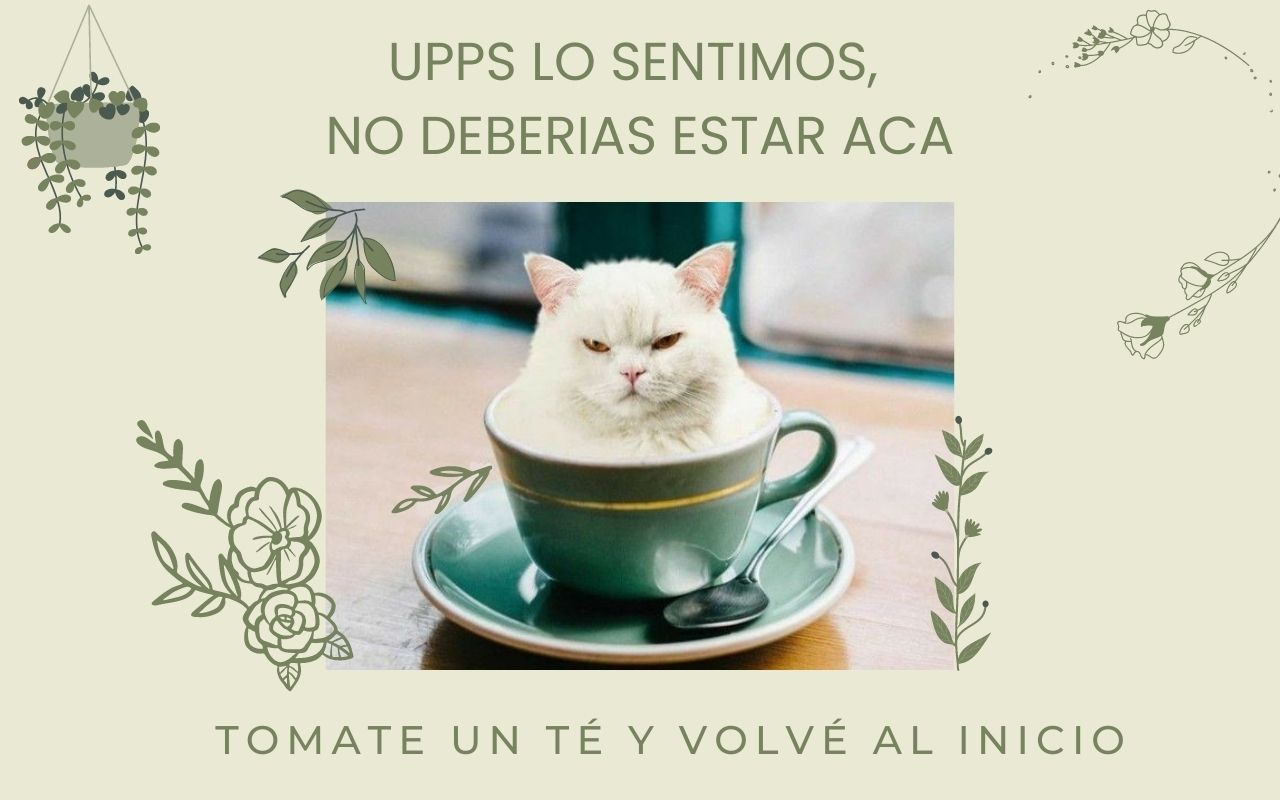
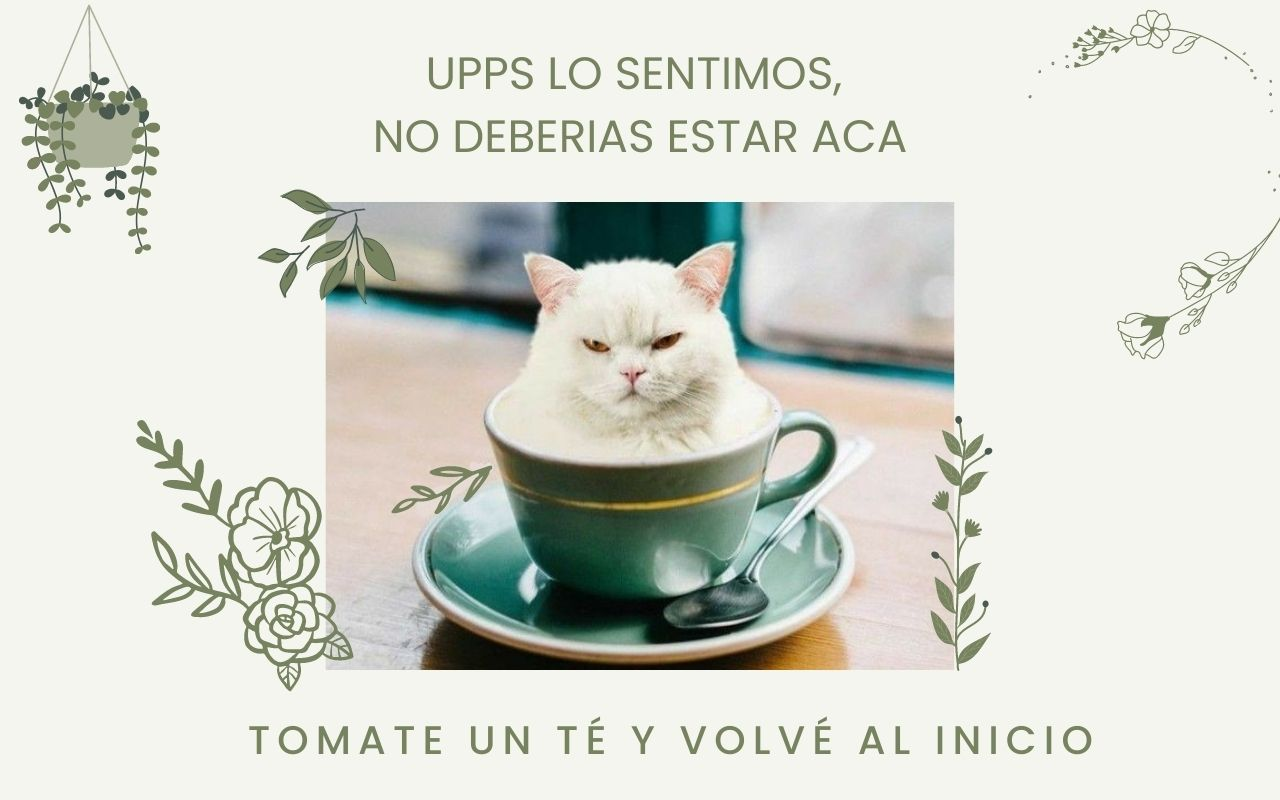
identacion

diff --git a/pages/contacto.html b/pages/contacto.html
@@ -5,8 +5,10 @@
     <meta charset="utf-8">
     <meta name="viewport" content="width=device-width, initial-scale=1">
     <title>Florentina - yerba organica y hierbas - nuestro contacto</title>
+    <meta name="description" content="Si queres revender, hacer regalos empresariales, desgustar nuestros sabores o conocer a cerca de 
+    recetas medicinales con nuestros blends, contactanos">
     <!-- favicon -->
-        <link rel="shortcut icon" href="../imagenes/favicon.svg" type="image/x-icon">
+    <link rel="shortcut icon" href="../imagenes/favicon.svg" type="image/x-icon">
     <!--link css de bootstrap-->
     <link href="https://cdn.jsdelivr.net/npm/bootstrap@5.3.0/dist/css/bootstrap.min.css" rel="stylesheet"
         integrity="sha384-9ndCyUaIbzAi2FUVXJi0CjmCapSmO7SnpJef0486qhLnuZ2cdeRhO02iuK6FUUVM" crossorigin="anonymous">
@@ -62,11 +64,10 @@
                                 alt="Yerba Florentina por mayor">
                             <div class="card-body">
                                 <h2 class="card-title">Quiero revender</h2>
-                                <p class="card-text">Some quick example text to build on the card title and make up
-                                    the
-                                    bulk
-                                    of
-                                    the card's content.</p>
+                                <p class="card-text">
+                                    Si estas interesad@ en emprender, o llevar tu local al siguiente nivel
+                                    escribinos para enviarte la informacion sobre la reventa de nuestros productos.
+                                </p>
                                 <a href="#" class="btn bg-green w-100">Pedir info</a>
                             </div>
                         </div>
@@ -78,11 +79,11 @@
                                 alt="Yerba Florentina regalos empesariales">
                             <div class="card-body">
                                 <h2 class="card-title">Regalos empresariales</h2>
-                                <p class="card-text">Some quick example text to build on the card title and make up
-                                    the
-                                    bulk
-                                    of
-                                    the card's content.</p>
+                                <p class="card-text">
+                                    Queres quedar bien con tus empleados,
+                                    tenes un evento y no sabes con qué premiarlos por su desempeño?
+                                    Escribinos y te contamos los giftboxes que tenemos!
+                                </p>
                                 <a href="#" class="btn bg-green w-100">Pedir info</a>
                             </div>
                         </div>
@@ -94,11 +95,12 @@
                                 alt="Yerba Florentina recetas">
                             <div class="card-body">
                                 <h2 class="card-title">Recetas sanadoras</h2>
-                                <p class="card-text">Some quick example text to build on the card title and make up
-                                    the
-                                    bulk
-                                    of
-                                    the card's content.</p>
+                                <p class="card-text">
+                                    Es bien sabido que las hierbas tienen poderes medicinales, pero como se llevarlas a
+                                    cabo?
+                                    Si queres recibir nuestro libro de recetas con un mix de hierbas incluido
+                                    escribinos.
+                                </p>
                                 <a href="#" class="btn bg-green w-100">Pedir info</a>
                             </div>
                         </div>
@@ -110,11 +112,10 @@
                                 alt="Yerba Florentina degustacion sabores ">
                             <div class="card-body">
                                 <h2 class="card-title">Degustacion de sabores</h2>
-                                <p class="card-text">Some quick example text to build on the card title and make up
-                                    the
-                                    bulk
-                                    of
-                                    the card's content.</p>
+                                <p class="card-text">
+                                    Si no estas muy seguro de que sabores te pueden gustar más y queres probar todos,
+                                    Escribinos y te mandamos la desgustacion de sabores de nuestras yerbas.
+                                </p>
                                 <a href="#" class="btn bg-green w-100">Pedir info</a>
                             </div>
                         </div>
@@ -184,8 +185,8 @@
                 </svg>
             </a>
         </div>
-         <!-- Ends icons -->
-         <div>
+        <!-- Ends icons -->
+        <div>
             <ul>
                 <li>
                     <a href="error404.html">Terminos y condiciones</a>
@@ -207,7 +208,7 @@
                 </li>
             </ul>
         </div>
-        
+
         <div>
             <ul>
                 <li>

diff --git a/index.html b/index.html
@@ -4,7 +4,14 @@
 <head>
     <meta charset="utf-8">
     <meta name="viewport" content="width=device-width, initial-scale=1">
+    <!-- SEO -->
     <title>Florentina - yerba organica y hierbas - inicio</title>
+    <meta name="description" content="Nuestra yerba mate orgánica tiene propiedades depurativas, cardioprotectoras, antioxidantes, estimulantes y tónicas. 
+        Contiene vitaminas, minerales, aminoácidos, ácidos grasos, clorofila y xantinas. Ayuda a combatir la falta de energía, 
+        la arteriosclerosis, los coágulos de sangre, el colesterol y la fatiga1. Además de los múltiples beneficios aportados, consumir 
+        yerba mate orgánica nos garantiza que desde el momento de su plantación hasta su procesamiento, no se expone a agroquímicos 
+        como insecticidas, plaguicidas o herbicidas. Es decir, al ser de producción orgánica, tenemos garantizada su inocuidad en cada 
+        etapa del proceso.">
     <!-- favicon -->
     <link rel="shortcut icon" href="imagenes/favicon.svg" type="image/x-icon">
     <!--link css de bootstrap-->
@@ -91,10 +98,13 @@
                 itaque eius unde!</p>
             <h2> Productos destacados</h2>
         </section>
-        <div class="foto-a"><img src="imagenes/nosotros2.jpg" alt="te en hebras Florentina en paquete 250gr repuesto y te en hebras"></div>
-        <div class="foto-b"><img src="imagenes/nosotros1.jpg" alt="Hierbas y flores Florentina saliendo de frasco"></div>
+        <div class="foto-a"><img src="imagenes/nosotros2.jpg"
+                alt="te en hebras Florentina en paquete 250gr repuesto y te en hebras"></div>
+        <div class="foto-b"><img src="imagenes/nosotros1.jpg" alt="Hierbas y flores Florentina saliendo de frasco">
+        </div>
         <div class="foto-c"><img src="imagenes/presentacionTE.jpg" alt="Hierbas Florentina, te en hebras"></div>
-        <div class="foto-d"><img src="imagenes/bolsitaRecargable.jpg" alt="Te Florentina en bolsita de tela, presentacion regalo"></div>
+        <div class="foto-d"><img src="imagenes/bolsitaRecargable.jpg"
+                alt="Te Florentina en bolsita de tela, presentacion regalo"></div>
         <div class="foto-e"><img src="imagenes/nosotros3.jpg" alt="Te Florentina en formato blend 500gr"></div>
         <div class="foto-f"><img src="imagenes/img4.webp" alt="Yerba Florentina en formato blend 500gr"></div>
     </main>
@@ -121,8 +131,8 @@
                 </svg>
             </a>
         </div>
-         <!-- Ends icons -->
-         <div>
+        <!-- Ends icons -->
+        <div>
             <ul>
                 <li>
                     <a href="pages/error404.html">Terminos y condiciones</a>
@@ -144,7 +154,7 @@
                 </li>
             </ul>
         </div>
-        
+
         <div>
             <ul>
                 <li>

diff --git a/pages/promos.html b/pages/promos.html
@@ -4,7 +4,12 @@
 <head>
     <meta charset="utf-8">
     <meta name="viewport" content="width=device-width, initial-scale=1">
-    <title>Florentina</title>
+    <title>Florentina - yerba organica y hierbas - productos en promocion </title>
+    <meta name="description" content="Yerba mate orgánica enriquecida con magnesio y vitaminas del grupo B. Ideal para comenzar el 
+    día con energía y claridad mental. Propiedades y beneficios únicos: estimula la concentración, ayuda a mantener el 
+    funcionamiento de músculos, sistema nervioso y sistema inmune, mantiene los huesos fuertes y equilibra el nivel de 
+    azúcar en sangre.
+    Aprovecha los descuentos y promociones que tenemos para vos.">
     <!-- favicon -->
     <link rel="shortcut icon" href="../imagenes/favicon.svg" type="image/x-icon">
     <!--link css de bootstrap-->
@@ -150,7 +155,8 @@
         <!--ends filters-->
         <!-- PRODUCTOS EN PROMOCION -->
         <section class="prod1">
-            <img src="../imagenes/promo1.jpg" alt="Te Florentina en blend repuesto 250gr y bolsita reciclable, vela encendida, tetera de vidrio con te hecho con te en hebras">
+            <img src="../imagenes/promo1.jpg"
+                alt="Te Florentina en blend repuesto 250gr y bolsita reciclable, vela encendida, tetera de vidrio con te hecho con te en hebras">
             <p>Lorem ipsum dolor sit amet consectetur adipisicing elit. Necessitatibus, eum unde? Reiciendis
                 pariatur nam exercitationem, magni voluptatum quam dolores ipsam dolorum! Voluptates minima et
                 sunt,
@@ -166,11 +172,13 @@
         </section>
         <!-- ends box 2-->
         <section class="prod3">
-            <img src="../imagenes/promo3.jpg" alt="yerba Florentina formato envase reciclable tamaño 250gr y te en taza de vidrio">
+            <img src="../imagenes/promo3.jpg"
+                alt="yerba Florentina formato envase reciclable tamaño 250gr y te en taza de vidrio">
         </section>
         <!-- ends box 3-->
         <section class="prod4">
-            <img src="../imagenes/carousel1.jpg" alt="yerba Florentina formato envase reciclable tamaño 250gr y te en taza de vidrio">
+            <img src="../imagenes/carousel1.jpg"
+                alt="yerba Florentina formato envase reciclable tamaño 250gr y te en taza de vidrio">
         </section>
         <!-- ends box 4-->
     </main>
@@ -196,8 +204,8 @@
                 </svg>
             </a>
         </div>
-         <!-- Ends icons -->
-         <div>
+        <!-- Ends icons -->
+        <div>
             <ul>
                 <li>
                     <a href="error404.html">Terminos y condiciones</a>
@@ -219,7 +227,7 @@
                 </li>
             </ul>
         </div>
-        
+
         <div>
             <ul>
                 <li>

diff --git a/css/main.css b/css/main.css
@@ -97,7 +97,6 @@ main figure img {
 }
 
 .pag-error {
-  padding: 8px 60px;
   display: flex;
   flex-direction: row;
   flex-wrap: wrap;
@@ -117,9 +116,6 @@ main figure img {
   color: #5b6336;
   font-size: 0.9em;
   text-decoration: none;
-}
-.pag-error .error-btn img {
-  height: 600px;
 }
 
 /* nav BS */
@@ -499,6 +495,25 @@ footer a {
     align-items: center;
   }
   .productos .seccion2 {
+    flex-direction: column;
+    align-items: center;
+  }
+  /*Pestaña Error 404*/
+  .pag-error {
+    flex-direction: column;
+    align-items: center;
+  }
+  .pag-error img {
+    width: 600px;
+  }
+}
+@media (width < 870px) {
+  /*Pestaña Nosotros*/
+  .nosotros .seccion1 {
+    flex-direction: column;
+    align-items: center;
+  }
+  .nosotros .seccion2 {
     flex-direction: column;
     align-items: center;
   }

diff --git a/pages/yerbas.html b/pages/yerbas.html
@@ -5,6 +5,9 @@
     <meta charset="utf-8">
     <meta name="viewport" content="width=device-width, initial-scale=1">
     <title>Florentina - yerba organica y hierbas - todos nuestros productos</title>
+    <meta name="description" content="Nuestra yerba mate orgánica puede consumirse en infusión fría o caliente, como mate o té, 
+    acompañar los desayunos, meriendas y tragos. Además, al ser pura hoja, sin palo, no produce acidez, de sabor parejo y duradero. 
+    Un mate bien sebado tiene una durabilidad de dos termos.">
     <!-- favicon -->
     <link rel="shortcut icon" href="../imagenes/favicon.svg" type="image/x-icon">
     <!--link css de bootstrap-->
@@ -192,7 +195,7 @@
                 </li>
             </ul>
         </div>
-        
+
         <div>
             <ul>
                 <li>

diff --git a/pages/nosotros.html b/pages/nosotros.html
@@ -5,6 +5,10 @@
     <meta charset="utf-8">
     <meta name="viewport" content="width=device-width, initial-scale=1">
     <title>Florentina - yerba organica y hierbas - sobre nosotros </title>
+    <meta name="description" content="Florentina es el resultado de mucho amor y trabajo en equipo. 
+    Somos una pareja que movidos por la pasión por el producto y las ganas de emprender, decidimos revalorizar la yerba mate y 
+    llevarla a un lugar más gourmet. Investigamos mucho antes de salir con nuestros blends, porque entendemos el fuerte significado 
+    que tiene la yerba mate para los argentinos.">
     <!-- favicon -->
     <link rel="shortcut icon" href="../imagenes/favicon.svg" type="image/x-icon">
     <!--link css de bootstrap-->

diff --git a/scss/_mediaqueries.scss b/scss/_mediaqueries.scss
@@ -117,4 +117,32 @@
         }
     }
 
+    /*Pestaña Error 404*/
+    .pag-error {
+        flex-direction: column;
+        align-items: center;
+
+        img {
+            width: 600px;
+        }
+    }
+
+}
+
+@media (width < 870px) {
+    /*Pestaña Nosotros*/
+
+    .nosotros {
+        .seccion1 {
+            flex-direction: column;
+            align-items: center;
+        }
+
+        .seccion2 {
+            flex-direction: column;
+            align-items: center;
+        }
+
+    }
+
 }

diff --git a/pages/error404.html b/pages/error404.html
@@ -53,8 +53,7 @@
     <main>
         <section class="pag-error">
             <h1>ERROR 404</h1>
-            <img src="../imagenes/error404gatito.jpg"
-                alt="pagina de error 404, boton para volver al inicio">
+            <img src="../imagenes/error404gatito.jpg" alt="pagina de error 404, boton para volver al inicio">
             <div class="gral-btn error-btn">
                 <a href="../index.html"> Volver al inicio </a>
             </div>

diff --git a/scss/_promos.scss b/scss/_promos.scss
@@ -41,12 +41,12 @@
     justify-content: flex-end;
     align-items: center;
 
-    .actions-btn{
+    .actions-btn {
         @extend .gral-btn;
         margin-left: 10px;
         color: #5b6336;
         padding: 6px;
-      }
+    }
 
     input {
         padding: 6px;

diff --git a/scss/_yerbas.scss b/scss/_yerbas.scss
@@ -28,11 +28,11 @@
             margin-bottom: 20px;
         }
 
-        .figure-btn{
+        .figure-btn {
             @extend .gral-btn;
             padding: 4px 25px;
             text-align: center;
             margin-bottom: 18px;
-          }
+        }
     }
 }

diff --git a/scss/_error.scss b/scss/_error.scss
@@ -1,6 +1,6 @@
 //pag error 404
 .pag-error {
-    padding: 8px 60px;
+
     display: flex;
     flex-direction: row;
     flex-wrap: wrap;
@@ -23,8 +23,6 @@
             text-decoration: none;
         }
 
-        img {
-            height: 600px;
-        }
+
     }
 }

diff --git a/scss/_animations.scss b/scss/_animations.scss
@@ -10,7 +10,7 @@
     transition: all 1s;
 }
 
-.scale-animation-contacto:hover{
+.scale-animation-contacto:hover {
     transform: translate(-10px);
     cursor: pointer;
     transition: all 1s;
